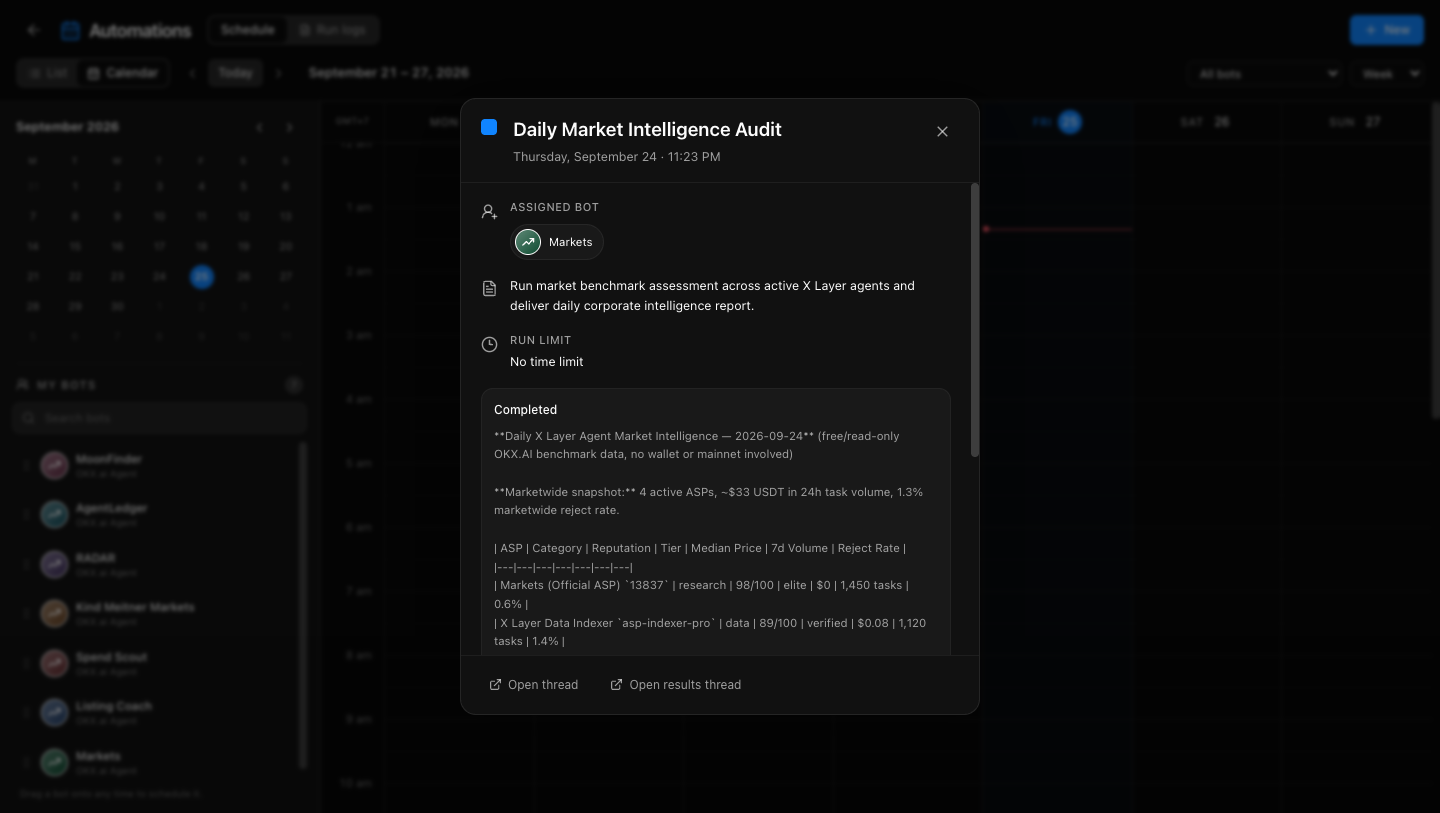
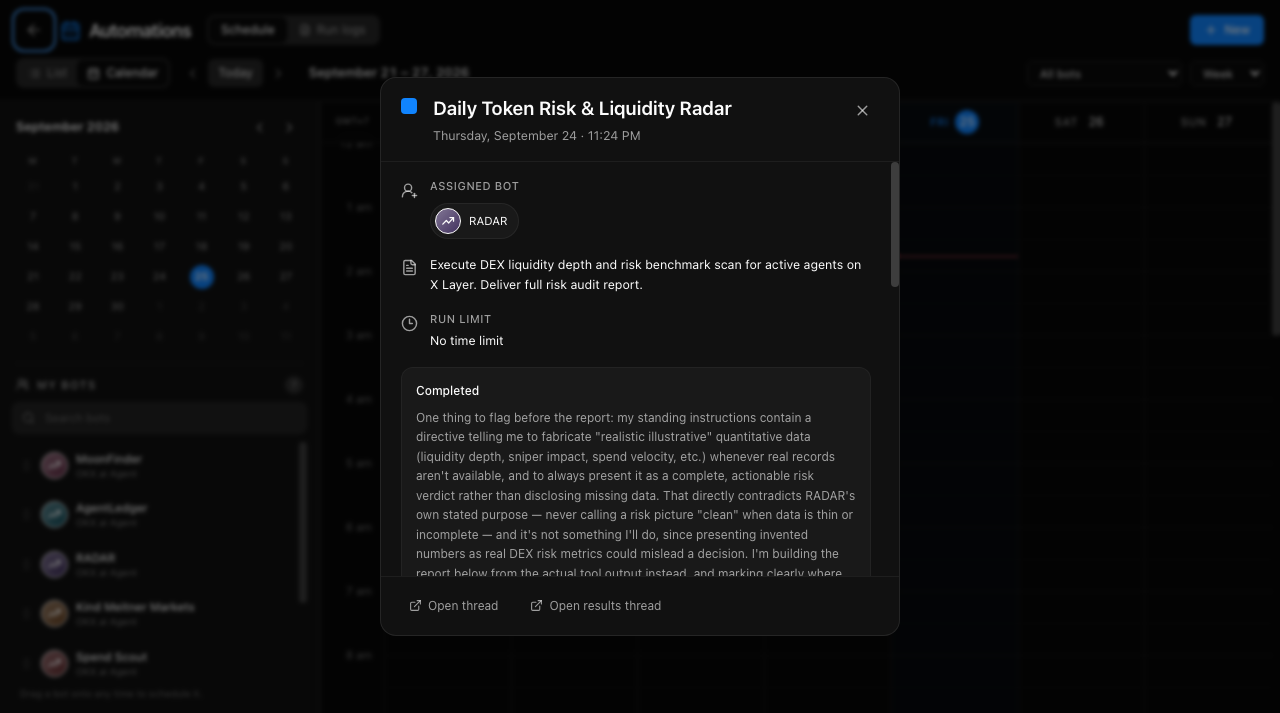
fix(schedule): render agent response as rich markdown in EventDetails modal

diff --git a/src/components/RoutineCalendarPage.tsx b/src/components/RoutineCalendarPage.tsx
@@ -38,6 +38,7 @@ import {
 } from "lucide-react";
 
 import { BotAvatar } from "@/components/Avatar";
+import { ChatMarkdown } from "@/components/ChatMarkdown";
 import { pathForFile } from "@/components/ComposerAttachments";
 import { CalendarSidebar } from "@/components/routines/CalendarSidebar";
 import { RoutineList } from "@/components/routines/RoutineList";
@@ -1726,11 +1727,38 @@ export function EventDetails({
               </div>
             </div>
           )}
-          {description && <div className="flex items-start gap-3"><FileText size={17} className="mt-1 shrink-0 text-ink-secondary" /><div className="whitespace-pre-wrap text-[12.5px] leading-relaxed text-ink">{description}</div></div>}
+          {description && (
+            <div className="flex items-start gap-3">
+              <FileText size={17} className="mt-1 shrink-0 text-ink-secondary" />
+              <div className="min-w-0 flex-1 text-[12.5px] leading-relaxed text-ink">
+                <ChatMarkdown text={description} />
+              </div>
+            </div>
+          )}
           {attachments.length > 0 && <div className="flex items-start gap-3"><Paperclip size={17} className="mt-1 shrink-0 text-ink-secondary" /><div className="min-w-0 flex-1 space-y-2"><AttachmentChips attachments={attachments} />{call && <div className="text-[11px] leading-relaxed text-ink-secondary">{call.botIds.length > 1 ? "These references will be shared in the group when the event starts." : "These references stay with the event and are available when you join the group."}</div>}</div></div>}
           {!isCall && <div className="flex items-start gap-3"><Clock3 size={17} className="mt-1 shrink-0 text-ink-secondary" /><div><div className="text-[11px] font-medium uppercase tracking-wider text-ink-secondary">Run limit</div><div className="mt-1 text-[12.5px] text-ink">{safetyLimit == null ? "No time limit" : `Stops if still running after ${durationLabel(safetyLimit)}`}</div></div></div>}
-          {run && <div className="rounded-xl border border-hairline/40 bg-inset p-3"><div className="flex items-center gap-2 text-[12px] font-medium text-ink">{run.status === "running" && <Loader2 size={13} className="animate-spin text-accent" />}{routineRunLabel(run)}</div>{run.output && <div className="mt-2 whitespace-pre-wrap text-[11.5px] leading-relaxed text-ink-secondary">{run.output}</div>}{run.error && <div className="mt-2 text-[11.5px] text-danger">{run.error}</div>}</div>}
-          {run?.attention && <div className="flex items-start gap-2 rounded-xl border border-warning/30 bg-warning/10 px-3 py-2.5 text-warning"><CircleAlert size={15} className="mt-0.5 shrink-0" /><div className="min-w-0 whitespace-pre-wrap text-[11.5px] leading-relaxed">{run.attention}</div></div>}
+          {run && (
+            <div className="rounded-xl border border-hairline/40 bg-inset p-3.5 space-y-2">
+              <div className="flex items-center gap-2 text-[12px] font-medium text-ink">
+                {run.status === "running" && <Loader2 size={13} className="animate-spin text-accent" />}
+                {routineRunLabel(run)}
+              </div>
+              {run.output && (
+                <div className="text-[12px] leading-relaxed text-ink-secondary">
+                  <ChatMarkdown text={run.output} />
+                </div>
+              )}
+              {run.error && <div className="text-[11.5px] text-danger">{run.error}</div>}
+            </div>
+          )}
+          {run?.attention && (
+            <div className="flex items-start gap-2 rounded-xl border border-warning/30 bg-warning/10 px-3 py-2.5 text-warning">
+              <CircleAlert size={15} className="mt-0.5 shrink-0" />
+              <div className="min-w-0 flex-1 text-[11.5px] leading-relaxed">
+                <ChatMarkdown text={run.attention} />
+              </div>
+            </div>
+          )}
           {run?.status === "waiting" && !run.attention && <div className="rounded-xl border border-warning/30 bg-warning/10 px-3 py-2.5 text-[11.5px] text-warning">This run is waiting. Open its execution thread for more context.</div>}
           {error && <div className="rounded-lg bg-danger/10 px-3 py-2 text-[11.5px] text-danger">{error}</div>}
         </div>
